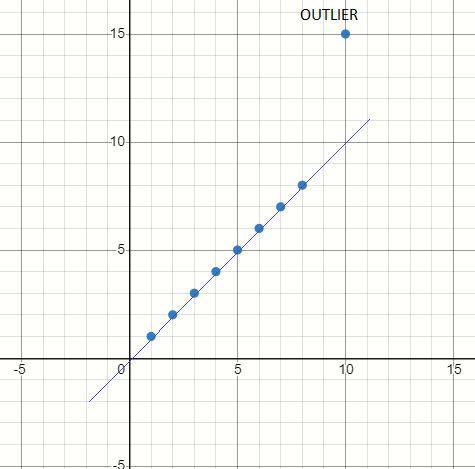
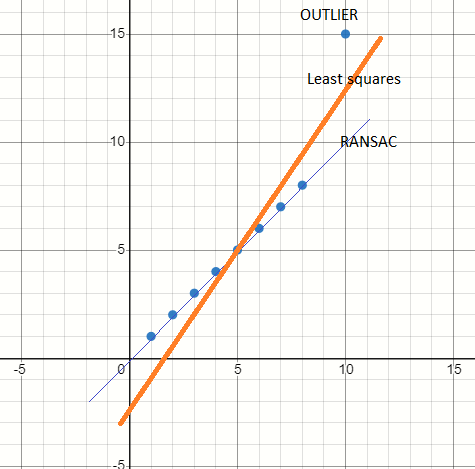
Completed initial 2 paras

diff --git a/RANSAC/article/medium-circle.md b/RANSAC/article/medium-circle.md
@@ -5,9 +5,9 @@ The RANSAC (Random sample and consensus) algorithm is the "gold standard" in eli
 The RANSAC algorithm in its original form was developed around finding straight line models when presented with noisy visual data. In this article, I will explore how to implement the RANSAC algorithm a circle model in a noisy set of points. I hope that by the end of this article you will appreciate how beautiful RANSAC is. Sometimes, I get carried away and visualize that human brain is perhaps doing some sort of RANSAC deep inside. Enough!
 
 
-![Human mind](images/Intro_HumanMind_SeesStraightLine.PNG)
+![Human mind](circle-images/HumanMind_StraightLine_Ransac.png)
 
-<<Overlay a good line and a bad line, Tag them as expected and actual>>
+The example shown above exhibits how noise can impact the outcome of the least squares fitting algorithm. The human mind can easily spot the outlier, but the least squares algorithm cannot. This is where RANSAC steps in. RANSAC is a simple voting based algorithm that iteratively samples the population of points and find the subset of those lines which appear to conform.
 
 
 # Problem definition
